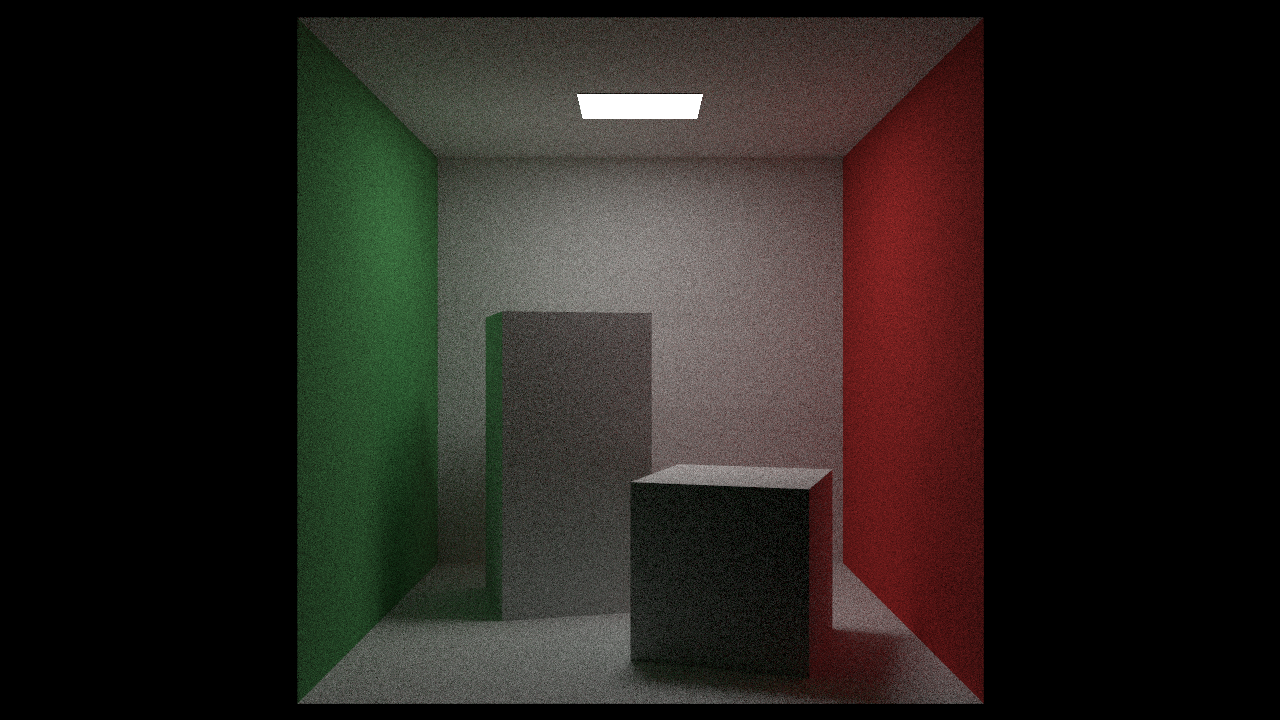
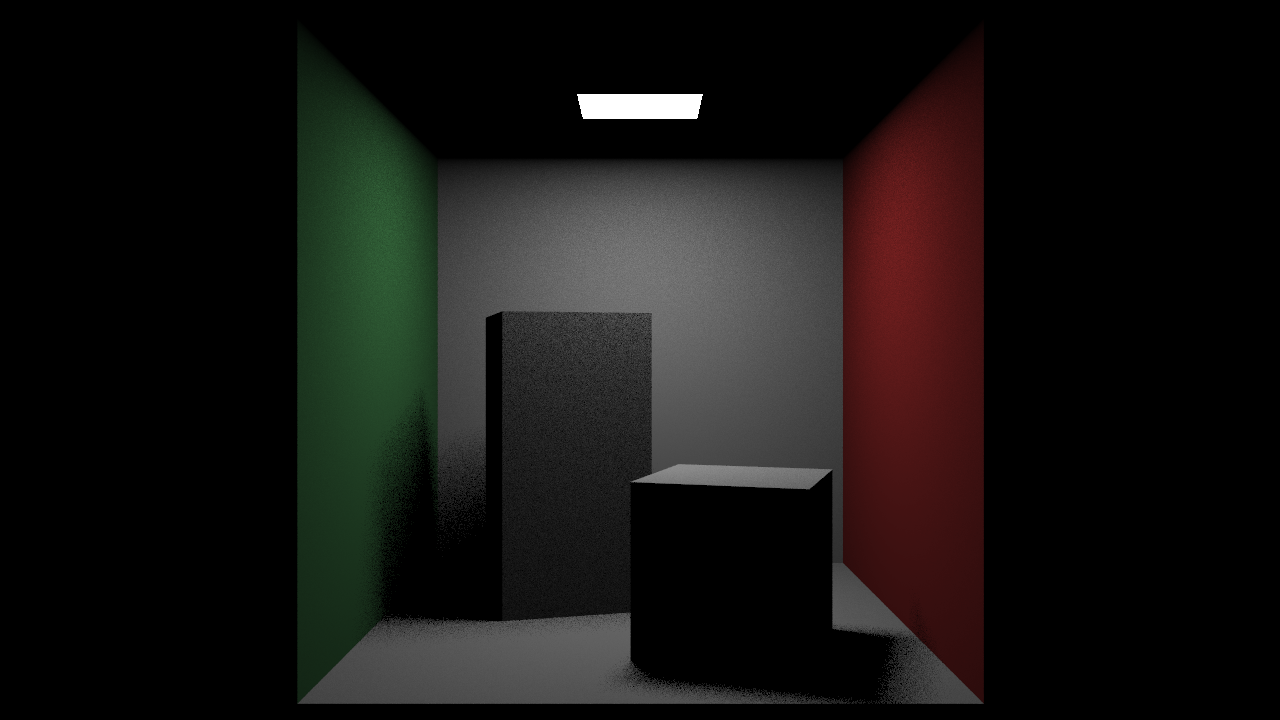
feat: sample direction to a hittable light, 10 samples per pixel

Changed region(s): [[0.2188, 0.0, 0.7812, 0.9778]]

diff --git a/src/common/camera.h b/src/common/camera.h
@@ -37,7 +37,7 @@ public:
     int total_pixel_count;
 
 public:
-    void render(const pro::proxy<Hittable>& world) {
+    void render(const pro::proxy<Hittable>& world, const pro::proxy<Hittable>& lights = {}) {
         initialize();
 
         img = cv::Mat(image_height, image_width, CV_8UC3);
@@ -65,7 +65,7 @@ public:
                         for (int s_y = 0; s_y < sqrt_spp; ++s_y) {
                             for (int s_x = 0; s_x < sqrt_spp; ++s_x) {
                                 Ray ray = get_ray(x, y, s_x, s_y);
-                                pixel_color += ray_color(ray, max_depth, world);
+                                pixel_color += ray_color(ray, max_depth, world, lights);
                             }
                         }
                         pixel_color *= pixel_samples_scale;
@@ -187,7 +187,8 @@ private:
         return center + (p.x() * defocus_disk_u) + (p.y() * defocus_disk_v);
     }
 
-    Vec3d ray_color(const Ray& ray, const int depth, const pro::proxy<Hittable>& world) {
+    Vec3d ray_color(const Ray& ray, const int depth, const pro::proxy<Hittable>& world,
+        const pro::proxy<Hittable>& lights) {
         // If we've exceeded the ray bounce limit, no more light is gathered
         if (depth <= 0) {
             return {0.0, 0.0, 0.0};
@@ -210,15 +211,24 @@ private:
 
         if (scatter_rec.skip_pdf) {
             return scatter_rec.attenuation.array()
-                   * ray_color(scatter_rec.skip_pdf_ray, depth - 1, world).array();
+                   * ray_color(scatter_rec.skip_pdf_ray, depth - 1, world, lights).array();
         }
 
-        const Ray scattered {hit_rec.p, scatter_rec.pdf->generate(), ray.time()};
-        const double pdf_value = scatter_rec.pdf->value(scattered.direction());
+        Ray scattered;
+        double pdf_value;
+
+        if (lights.has_value()) {
+            const HittablePDF light_pdf {lights, hit_rec.p};
+            scattered = Ray {hit_rec.p, light_pdf.generate(), ray.time()};
+            pdf_value = light_pdf.value(scattered.direction());
+        } else {
+            scattered = Ray {hit_rec.p, scatter_rec.pdf->generate(), ray.time()};
+            pdf_value = scatter_rec.pdf->value(scattered.direction());
+        }
 
         const double scattering_pdf = hit_rec.mat->scattering_pdf(ray, hit_rec, scattered);
 
-        const Vec3d sample_color = ray_color(scattered, depth - 1, world);
+        const Vec3d sample_color = ray_color(scattered, depth - 1, world, lights);
 
         const Vec3d color_from_scatter =    //
             scatter_rec.attenuation.array() //

diff --git a/utils/render_scene.cpp b/utils/render_scene.cpp
@@ -339,13 +339,18 @@ void render_cornell_box(const std::string& output_image_format) {
     world.add(box1);
     world.add(box2);
 
+    // Light sources
+    auto empty_material = pro::make_proxy_shared<Material, EmptyMaterial>();
+    auto lights = pro::make_proxy_shared<Hittable, Quad>(Vec3d {343.0, 554.0, 332.0},
+        Vec3d {-130.0, 0.0, 0.0}, Vec3d {0.0, 0.0, -105.0}, empty_material);
+
     pro::proxy<Hittable> world_as_hittable = &world;
 
     // Camera
     Camera cam;
     cam.aspect_ratio = 16.0 / 9.0;
     cam.image_width = 1280;
-    cam.samples_per_pixel = 1000;
+    cam.samples_per_pixel = 10;
     cam.max_depth = 50;
     cam.background = {0.0, 0.0, 0.0};
 
@@ -356,7 +361,7 @@ void render_cornell_box(const std::string& output_image_format) {
 
     cam.defocus_angle = 0.0;
 
-    cam.render(world_as_hittable);
+    cam.render(world_as_hittable, lights);
 
     // cv::imshow("output image", cam.img);
     // cv::waitKey();

diff --git a/src/common/material.h b/src/common/material.h
@@ -32,6 +32,23 @@ struct ScatterRecord {
 };
 
 
+struct EmptyMaterial {
+
+    Vec3d emitted(const Ray& ray_in, const HitRecord& hit_rec, const double u, const double v,
+        const Vec3d& p) const {
+        return {0.0, 0.0, 0.0};
+    }
+
+    bool scatter(const Ray& ray_in, const HitRecord& hit_rec, ScatterRecord& scatter_rec) const {
+        return false;
+    }
+
+    double scattering_pdf(const Ray& ray_in, const HitRecord& hit_rec, const Ray& scattered) const {
+        return 0.0;
+    }
+};
+
+
 struct Lambertion {
     explicit Lambertion(const Vec3d& albedo)
         : m_tex(pro::make_proxy_shared<Texture, SolidColor>(albedo)) {}
